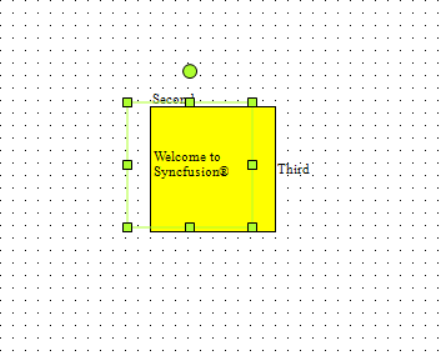
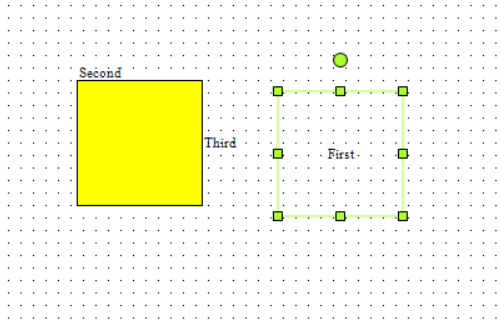
review_changes

diff --git a/diagram-sdk/winforms/Label.md b/diagram-sdk/winforms/Label.md
@@ -525,7 +525,7 @@ Dim rectangle As New Syncfusion.Windows.Forms.Diagram.Rectangle(New RectangleF(1
 Dim label As New Syncfusion.Windows.Forms.Diagram.Label()
 'To set the label constraint as Interaction...
 label.Constraints = LabelConstraints.Interaction
-label.Text = "Welcome to Syncfusion®"
+label.Text = "First"
 rectangle.Labels.Add(label)
 
 label = New Syncfusion.Windows.Forms.Diagram.Label()
